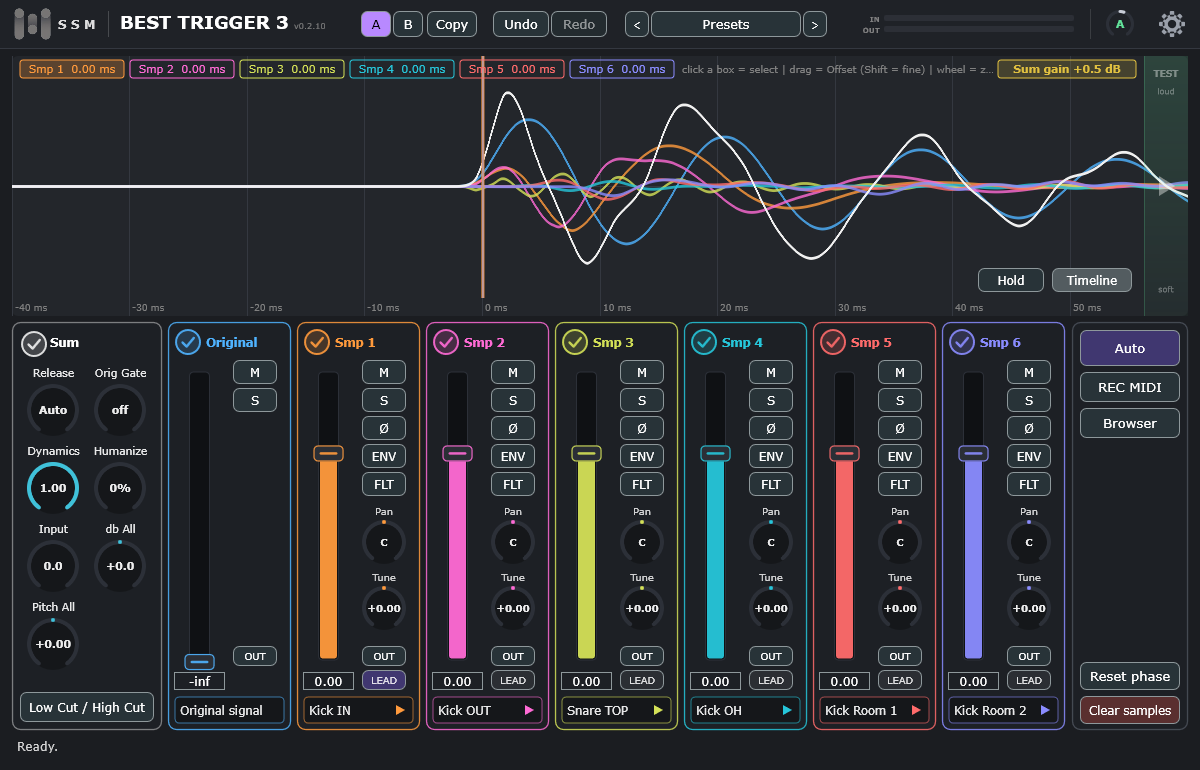
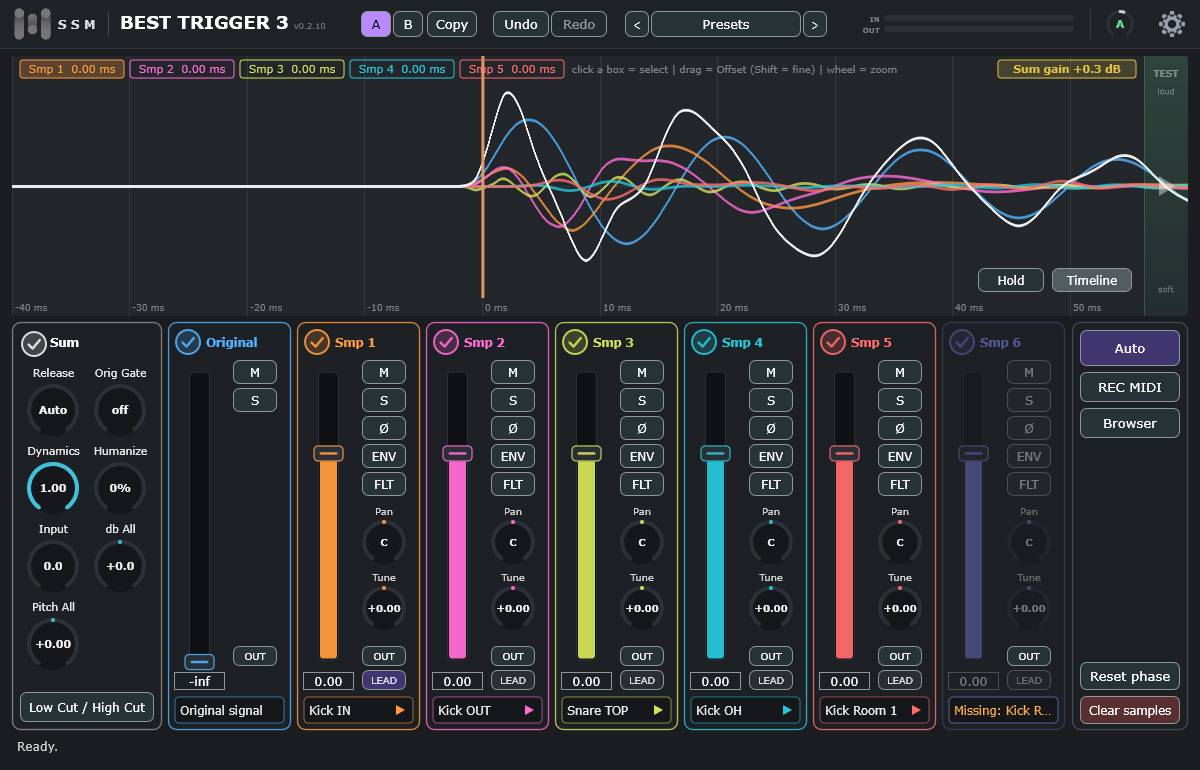
Manuals 0.2.11, changelog

diff --git a/docs/manual-ru.html b/docs/manual-ru.html
@@ -40,7 +40,7 @@
 <header class="top">
   <h1>BEST TRIGGER 3</h1>
   <div class="sub">Руководство пользователя</div>
-  <div class="ver">Версия 0.2.10 · VST3 · Windows 10/11 · macOS · <a href="manual-en.html">English version</a></div>
+  <div class="ver">Версия 0.2.11 · VST3 · Windows 10/11 · macOS · <a href="manual-en.html">English version</a></div>
 </header>
 <main>
 
@@ -259,7 +259,7 @@
 <p>Плагин использует фреймворк JUCE, TweetNaCl и метод из проекта tci2wav (MIT). Тексты лицензий: <a href="https://github.com/BardinGuitars/Best-Trigger-3/blob/main/THIRD_PARTY_NOTICES.md">THIRD_PARTY_NOTICES.md</a>. VST — торговая марка Steinberg Media Technologies GmbH.</p>
 <footer>
   <b>© 2026 SSM-Audio. Все права защищены.</b><br>
-  Best Trigger 3 · версия 0.2.10
+  Best Trigger 3 · версия 0.2.11
 </footer>
 </main>
 </body>

diff --git a/docs/manual-en.html b/docs/manual-en.html
@@ -40,7 +40,7 @@
 <header class="top">
   <h1>BEST TRIGGER 3</h1>
   <div class="sub">User Manual</div>
-  <div class="ver">Version 0.2.10 · VST3 · Windows 10/11 · macOS · <a href="manual-ru.html">Русская версия</a></div>
+  <div class="ver">Version 0.2.11 · VST3 · Windows 10/11 · macOS · <a href="manual-ru.html">Русская версия</a></div>
 </header>
 <main>
 
@@ -259,7 +259,7 @@
 <p>The plugin uses the JUCE framework, TweetNaCl and a method from the tci2wav project (MIT). Licence texts: <a href="https://github.com/BardinGuitars/Best-Trigger-3/blob/main/THIRD_PARTY_NOTICES.md">THIRD_PARTY_NOTICES.md</a>. VST is a trademark of Steinberg Media Technologies GmbH.</p>
 <footer>
   <b>© 2026 SSM-Audio. All rights reserved.</b><br>
-  Best Trigger 3 · version 0.2.10
+  Best Trigger 3 · version 0.2.11
 </footer>
 </main>
 </body>

diff --git a/CHANGELOG.md b/CHANGELOG.md
@@ -1,5 +1,12 @@
 # Changelog · История изменений
 
+## 0.2.11
+- **Separate outputs** (full version): Original and Smp 1 … Smp 6 on their own stereo outputs; the **OUT** button on a channel sends it there. In REAPER: right-click the plugin → *Build multichannel routing*. · **Отдельные выходы** (полная версия): Original и Smp 1 … Smp 6 на своих стерео-выходах; кнопка **OUT** на канале отправляет его туда. В REAPER: правый щелчок по плагину → *Build multichannel routing*.
+- **For best sound** balances only the close microphones. · **For best sound** выравнивает только близкие микрофоны.
+- The interface size is remembered; new sizes **75%** and **110%**. · Размер интерфейса запоминается; новые размеры **75%** и **110%**.
+- **Hold** and **Phase** moved onto the scope; **Reset phase** and **Clear samples** are at the bottom of the right panel. · **Hold** и **Phase** переехали на осциллограф; **Reset phase** и **Clear samples** внизу правой панели.
+- **Online libraries** update when a new version is published. The Artem Music library is fixed: stereo and all takes (version 1.1). · **Онлайн-библиотеки** обновляются, когда выходит новая версия. Библиотека Artem Music исправлена: стерео и все дубли (версия 1.1).
+
 ## 0.2.10
 - **For best sound** (Auto → Level): sets the levels of the samples for a modern kick sound. · **For best sound** (Auto → Level): подбирает уровни сэмплов для современного звука кика.
 - **Reset phase** and **Clear samples** buttons; **Clear all samples** in the browser. · Кнопки **Reset phase** и **Clear samples**; **Clear all samples** в браузере.
